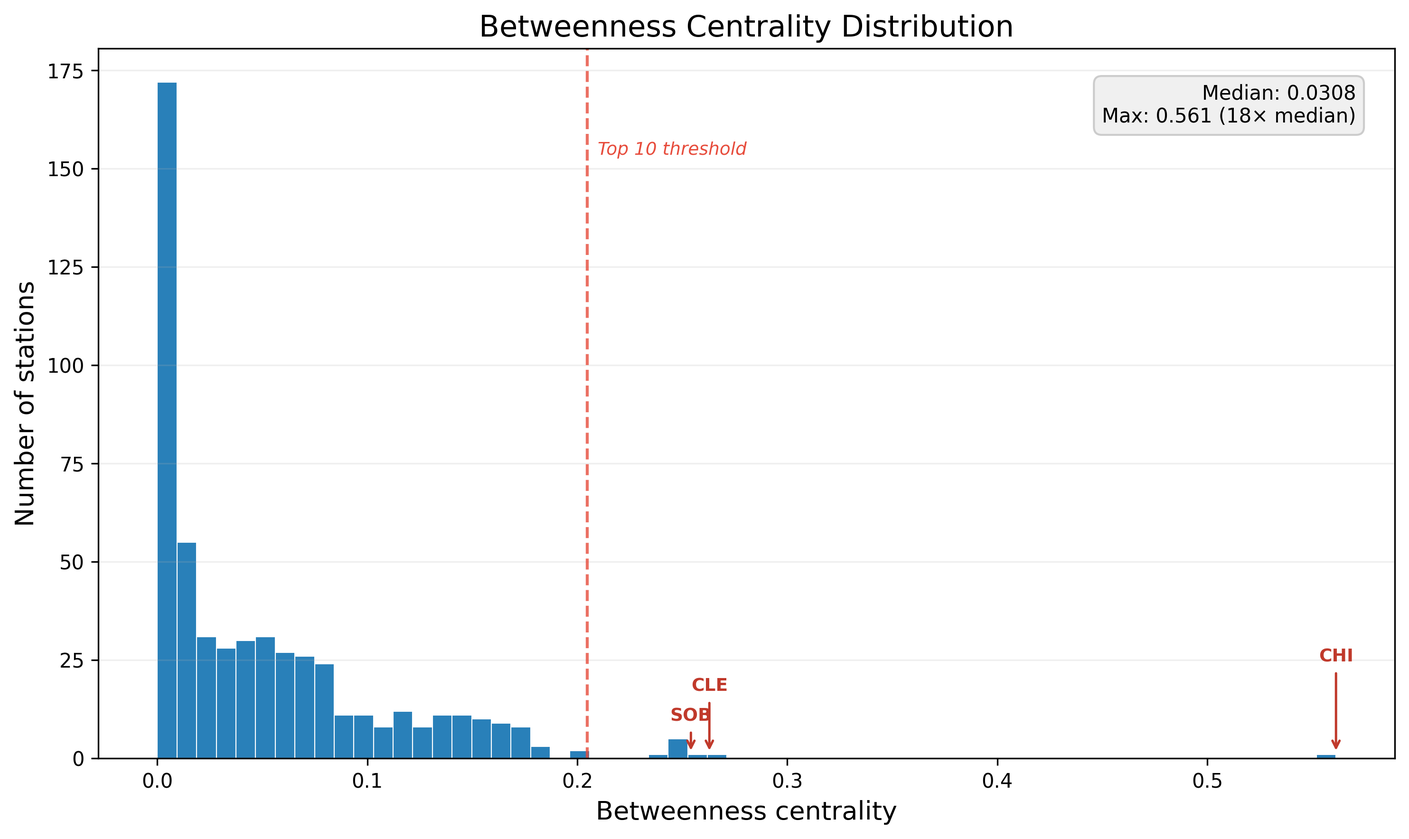
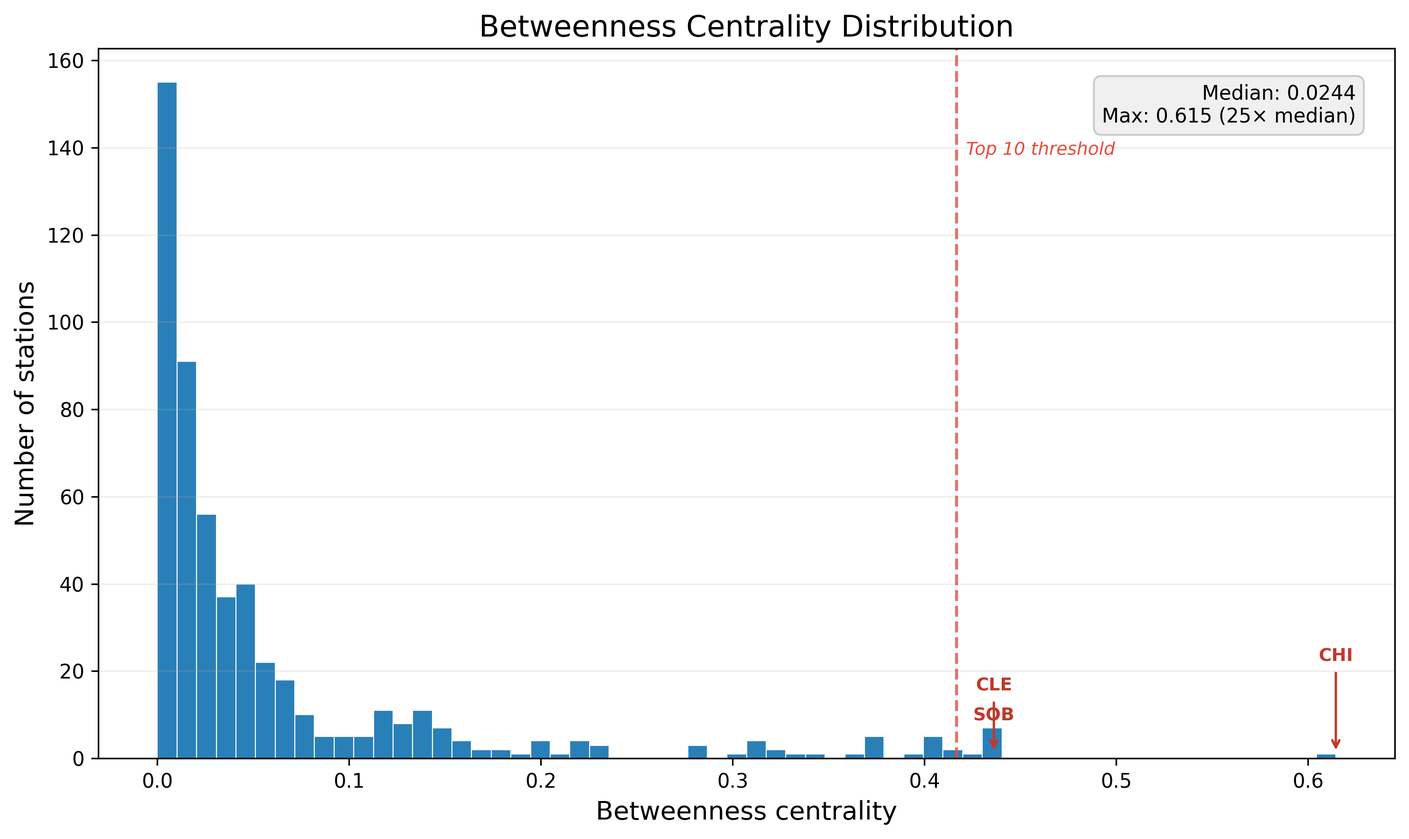
Fix betweenness weight semantics; update report narrative and plots
- compute_hub_centrality now uses cost = 1/ridership (NetworkX treats
  weight as distance, so raw ridership inverted shortest-path logic)
- New top 10: CHI, CLE, SOB, EKH, WTI, TOL, SKY, ELY, BUF, SDY
- Retuned label offsets in robustness, geographic, and scatter plots
- Report updates: methodology note, limitations section, sensitivity
  check vs. unweighted betweenness, disconnected-component explanation,
  scale-free caveat, Action -> Implication framing

diff --git a/Amtrak_Hub_Analysis_Report.html b/Amtrak_Hub_Analysis_Report.html
@@ -1,4 +1,4 @@
-<!DOCTYPE html>
+<!DOCTYPE html>
 <html lang="en">
 <head>
     <meta charset="UTF-8">
@@ -190,7 +190,12 @@
     <li><strong>Edge weights</strong> represent ridership intensity. For a given route, the total route ridership is divided equally among its segments (total ridership &divide; number of stops). When multiple routes share the same segment (e.g. the Acela and Northeast Regional both run NYP&rarr;NWK), their weights are summed. This produces a single combined ridership weight per edge.</li>
 </ul>
 
-<p>The resulting graph contains <strong>537 stations and 612 edges</strong>, with a largest connected component of <strong>523 stations</strong> (97.4% of the network).</p>
+<p>The resulting graph contains <strong>537 stations and 612 edges</strong>, with a largest connected component of <strong>523 stations</strong> (97.4% of the network). The remaining 14 stations form two small isolated components that reflect real gaps in the rail network:</p>
+<ul>
+    <li><strong>Downeaster component (12 stations):</strong> Boston North Station (BON) through Brunswick, ME. Disconnected from the main network because Boston North and Boston South are separate terminals on opposite sides of the city with no direct through-track.</li>
+    <li><strong>Auto Train component (2 stations):</strong> Lorton, VA (LOR) and Sanford, FL (SFA). The Auto Train is a point-to-point service with no intermediate stops, so it appears as an isolated pair.</li>
+</ul>
+<p>These disconnected stations are excluded from the largest-component robustness analysis (denominator = 523).</p>
 
 <hr>
 
@@ -232,7 +237,8 @@
 <h2>3. How We Computed Each Metric</h2>
 
 <h3>Betweenness centrality</h3>
-<p>Computed using NetworkX's <code>betweenness_centrality()</code> function over the full weighted graph. The algorithm considers edge weights when computing shortest paths (lower weight = shorter path), and normalizes scores to $[0, 1]$. All 537 stations receive a centrality score; we rank them and extract the top 10.</p>
+<p>Computed using NetworkX's <code>betweenness_centrality()</code> function over the full graph with edge weights that reflect passenger flow. Because our raw edge weights encode <em>ridership</em> (higher = busier corridor) but NetworkX treats the weight attribute as a Dijkstra <em>cost</em> (higher = longer path), we invert the raw weight into a cost: <code>cost = 1 / ridership</code>. Busy corridors then become &ldquo;short&rdquo; and shortest paths preferentially route through high-ridership segments. Centrality scores are normalized to $[0, 1]$ and every one of the 537 stations receives a score; we rank them and extract the top 10.</p>
+<p><em>Note on methodology:</em> we initially passed raw ridership as the weight, which NetworkX interprets as distance (higher = further apart) &mdash; the opposite of what we intended. Inverting ridership to a cost gives the semantically correct flow-weighted centrality. The unweighted sensitivity check in Section 4 confirms the top 8 stations are robust to this choice.</p>
 
 <h3>Targeted removal experiment</h3>
 <p>Starting from the intact network, we sequentially remove the station with the highest betweenness centrality, then the second-highest, and so on up to 10 removals. After each removal, we measure the size of the largest connected component. This simulates a worst-case coordinated attack on the network's most critical nodes.</p>
@@ -246,6 +252,13 @@
 <h3>Edge weight distribution</h3>
 <p>We collect the ridership weight of all 612 edges and plot their distribution on a log scale to visualize the long tail from low-traffic rural segments to high-traffic urban corridors.</p>
 
+<h3>Limitations</h3>
+<ul>
+    <li><strong>Ridership is split uniformly along each route's segments</strong> (route ridership &divide; number of stops). Real passenger flows are endpoint-heavy &mdash; most riders board at major stations and ride partway &mdash; but station-level origin-destination data is not publicly available. This likely over-weights small rural middle-of-route segments and under-weights urban endpoints.</li>
+    <li><strong>Edge weights represent annual ridership only.</strong> Train frequency (e.g. Empire Service running many daily trains vs. Cardinal running three per week) is not modeled as a separate factor, though it is partially captured by ridership totals.</li>
+    <li><strong>Robustness is measured by largest-connected-component size,</strong> which treats &ldquo;still connected&rdquo; and &ldquo;connected via a 3&times; detour&rdquo; identically. A more refined measure (e.g. network efficiency) would penalize lengthened paths, but component size is the standard intro-networks metric and suffices for the targeted-vs-random comparison.</li>
+</ul>
+
 <hr>
 
 <!-- ====== Section 4 ====== -->
@@ -258,25 +271,25 @@
         <tr><th>Rank</th><th>Station Code</th><th>Betweenness Centrality</th><th>Degree</th><th>Role</th></tr>
     </thead>
     <tbody>
-        <tr><td>1</td><td><strong>CHI</strong> (Chicago Union Station)</td><td>0.5614</td><td>9</td><td>Primary national hub &mdash; highest centrality <em>and</em> highest degree</td></tr>
-        <tr><td>2</td><td><strong>CLE</strong> (Cleveland)</td><td>0.2629</td><td>3</td><td>East&ndash;Midwest bridge</td></tr>
-        <tr><td>3</td><td><strong>SOB</strong> (South Bend)</td><td>0.2541</td><td>2</td><td>Bottleneck on Chicago&ndash;East corridor</td></tr>
-        <tr><td>4</td><td><strong>EKH</strong> (Elkhart, IN)</td><td>0.2521</td><td>2</td><td>Bottleneck on Chicago&ndash;East corridor</td></tr>
-        <tr><td>5</td><td><strong>WTI</strong> (Waterloo, IN)</td><td>0.2501</td><td>3</td><td>Midwest junction</td></tr>
-        <tr><td>6</td><td><strong>NOL</strong> (New Orleans)</td><td>0.2463</td><td>4</td><td>Southern hub &mdash; links Gulf Coast to eastern network</td></tr>
-        <tr><td>7</td><td><strong>TOL</strong> (Toledo, OH)</td><td>0.2462</td><td>3</td><td>Ohio corridor bottleneck</td></tr>
-        <tr><td>8</td><td><strong>SKY</strong> (Sandusky, OH)</td><td>0.2442</td><td>2</td><td>Bottleneck in Ohio corridor</td></tr>
-        <tr><td>9</td><td><strong>ELY</strong> (Elyria, OH)</td><td>0.2423</td><td>2</td><td>Bottleneck in Ohio corridor</td></tr>
-        <tr><td>10</td><td><strong>NPV</strong> (Naperville, IL)</td><td>0.2047</td><td>5</td><td>Chicago suburban junction</td></tr>
+        <tr><td>1</td><td><strong>CHI</strong> (Chicago Union Station)</td><td>0.6145</td><td>9</td><td>Primary national hub &mdash; highest centrality <em>and</em> highest degree</td></tr>
+        <tr><td>2</td><td><strong>CLE</strong> (Cleveland)</td><td>0.4362</td><td>3</td><td>East&ndash;Midwest bridge on the Lake Shore corridor</td></tr>
+        <tr><td>3</td><td><strong>SOB</strong> (South Bend)</td><td>0.4362</td><td>2</td><td>Bottleneck on Chicago&ndash;East corridor</td></tr>
+        <tr><td>4</td><td><strong>EKH</strong> (Elkhart, IN)</td><td>0.4354</td><td>2</td><td>Bottleneck on Chicago&ndash;East corridor</td></tr>
+        <tr><td>5</td><td><strong>WTI</strong> (Waterloo, IN)</td><td>0.4346</td><td>3</td><td>Midwest junction on Chicago&ndash;East corridor</td></tr>
+        <tr><td>6</td><td><strong>TOL</strong> (Toledo, OH)</td><td>0.4330</td><td>3</td><td>Ohio corridor junction</td></tr>
+        <tr><td>7</td><td><strong>SKY</strong> (Sandusky, OH)</td><td>0.4322</td><td>2</td><td>Bottleneck in Ohio corridor</td></tr>
+        <tr><td>8</td><td><strong>ELY</strong> (Elyria, OH)</td><td>0.4314</td><td>2</td><td>Bottleneck in Ohio corridor</td></tr>
+        <tr><td>9</td><td><strong>BUF</strong> (Buffalo)</td><td>0.4226</td><td>3</td><td>Empire Corridor gateway into New York State</td></tr>
+        <tr><td>10</td><td><strong>SDY</strong> (Schenectady)</td><td>0.4167</td><td>4</td><td>Empire Corridor junction west of Albany</td></tr>
     </tbody>
 </table>
 
 <h3>Notable patterns</h3>
 <ul>
-    <li><strong>Chicago (CHI)</strong> dominates with a centrality score more than <strong>2&times; higher</strong> than any other station and <strong>18&times; the network median</strong> (0.031).</li>
-    <li><strong>8 of the top 10 hubs are in the Midwest</strong> corridor between Chicago and Cleveland. Only New Orleans (NOL) lies outside this geographic cluster.</li>
-    <li>Most of the top hubs have <strong>low degree (2&ndash;3)</strong> despite their extreme centrality. They are bottlenecks &mdash; the <em>only</em> path between large regions passes through them &mdash; rather than multi-way junctions.</li>
-    <li>CHI is the sole exception: both a connector (degree 9) and a bottleneck (centrality 0.56).</li>
+    <li><strong>Chicago (CHI)</strong> has the highest centrality at <strong>0.61</strong>, roughly <strong>1.4&times; the next-highest</strong> station (CLE at 0.44) and <strong>25&times; the network median</strong> (0.024).</li>
+    <li>The top 10 all lie along a single east&ndash;west flow axis from <strong>Chicago through Indiana, Ohio, and upstate New York</strong>. The Lake Shore Limited and Empire Service together carry so much of the network's passenger flow that nearly every station along that chain ends up with near-identical centrality.</li>
+    <li>Ranks 2&ndash;10 are <strong>very tightly bunched</strong> (0.42&ndash;0.44, a spread of less than 0.02). This means the <em>ordering</em> among ranks 2&ndash;10 is not individually meaningful &mdash; they should be read as a single group of corridor stations, not a strict ranking. The meaningful distinction is between CHI, this corridor group, and everything else.</li>
+    <li>Most of the top hubs have <strong>low degree (2&ndash;3)</strong>. They are bottlenecks &mdash; the <em>only</em> flow-weighted shortest path between large regions passes through them &mdash; rather than multi-way junctions. CHI is the sole exception: both a connector (degree 9) and a bottleneck (centrality 0.61).</li>
 </ul>
 
 <h3>Highest-ridership corridors</h3>
@@ -297,6 +310,12 @@
 
 <p>All five are in the <strong>Northeast Corridor</strong>, carrying 36&times; the median ridership of 6.7.</p>
 
+<h3>Sensitivity check</h3>
+<p>To verify that the top-10 ranking is not an artifact of our specific weighting choice, we also computed betweenness under an <strong>unweighted</strong> model (pure topology, every edge has equal cost). The top 8 stations are <strong>identical</strong> in both schemes: CHI, CLE, SOB, EKH, WTI, TOL, SKY, ELY. Only ranks 9&ndash;10 differ (BUF/SDY under flow-weighting vs. NPV/SAC under unweighted). This confirms the main finding &mdash; CHI as the dominant hub with a linear corridor of critical stations to its east &mdash; is a property of the network's structure, not of the weighting scheme.</p>
+
+<h3>Note on network type</h3>
+<p>The degree distribution is heavy-tailed with one extreme outlier (CHI at degree 9), consistent with a hub-and-chain topology. With only 537 nodes we do not claim a formal power-law fit; the distribution is better described qualitatively as &ldquo;one dominant hub, a handful of minor junctions, and long linear chains&rdquo; than as a true scale-free network in the Barab&aacute;si&ndash;Albert sense.</p>
+
 <hr>
 
 <!-- ====== Section 5 ====== -->
@@ -304,14 +323,14 @@
 
 <div class="graph-section">
     <h3>Graph 1: Targeted vs Random Station Removal</h3>
-    <img src="graphs/hub-robustness.png" alt="Hub Robustness — Targeted vs Random Removal">
+    <img src="graphs/hub-robustness.png" alt="Hub Robustness â€” Targeted vs Random Removal">
     <p><strong>What it shows:</strong> Two curves plotted against the number of stations removed (0&ndash;10). The red solid line shows what happens when stations are removed in order of betweenness centrality (targeted attack). The blue dashed line shows what happens when stations are removed randomly (averaged over 100 trials). The shaded pink region between them highlights the &ldquo;vulnerability gap.&rdquo; The right y-axis shows the percentage of the original network remaining.</p>
     <p><strong>Key observations:</strong></p>
     <ul>
-        <li>Removing just <strong>CHI</strong> drops connectivity to 95%. The first 5 targeted removals hold the component at ~94% (489 stations) &mdash; the Midwest corridor is being chipped away.</li>
-        <li>At removal <strong>#6 (NOL)</strong>, a catastrophic collapse occurs: the network drops from 94% to <strong>52%</strong> in a single step. New Orleans was the last link holding the southern and western halves of the network together.</li>
-        <li>After 10 targeted removals, only <strong>269 stations (51%)</strong> remain connected.</li>
-        <li>Random removal of 10 stations barely matters: <strong>~92% connectivity</strong> is preserved. The network is resilient to accidental failures.</li>
+        <li>Removing just <strong>CHI</strong> drops connectivity to 95% (499 stations). The next several removals (CLE through ELY) hold the component steady at <strong>~94% (491 stations)</strong> &mdash; these stations are all adjacent along the same corridor, so removing one already cuts off the segment the next would have influenced.</li>
+        <li>After 10 targeted removals, <strong>459 stations (87.8%)</strong> remain connected.</li>
+        <li>Random removal of 10 stations preserves <strong>~92% connectivity</strong>.</li>
+        <li>The &ldquo;vulnerability gap&rdquo; between targeted and random removal is therefore only about <strong>4 percentage points</strong>. When centrality is correctly weighted by passenger flow, the top-10 stations are not global articulation points &mdash; they cluster on one corridor, so removing them just chips away at that corridor rather than fragmenting the entire network. (Removing CHI alone remains the single most damaging action.)</li>
     </ul>
 </div>
 
@@ -335,7 +354,7 @@
     <p><strong>What it shows:</strong> A histogram of betweenness centrality across all 537 stations. The dashed vertical red line marks the top-10 threshold. The top 3 outliers (CHI, CLE, SOB) are individually labeled. An inset box reports the median and maximum values.</p>
     <p><strong>Key observations:</strong></p>
     <ul>
-        <li>The distribution is <strong>extremely right-skewed</strong>: the median centrality is 0.031, while the maximum (CHI) is 0.561 &mdash; <strong>18&times; the median</strong>.</li>
+        <li>The distribution is <strong>extremely right-skewed</strong>: the median centrality is 0.024, while the maximum (CHI) is 0.61 &mdash; <strong>25&times; the median</strong>.</li>
         <li>The vast majority of stations cluster near zero centrality. Most stations are not structurally important.</li>
         <li>There is a clear gap between the &ldquo;body&rdquo; of the distribution and the top-10 outliers, confirming that hub importance is not a continuum but a sharp divide between critical and non-critical stations.</li>
     </ul>
@@ -347,10 +366,10 @@
     <p><strong>What it shows:</strong> A map of the continental United States with all 537 stations plotted as points. The top 10 hubs are shown as large circles sized and colored by centrality (darker red = higher centrality), with labeled leader lines showing rank and station code. All other stations appear as small grey dots. Edges are drawn with thickness proportional to ridership.</p>
     <p><strong>Key observations:</strong></p>
     <ul>
-        <li><strong>8 of the top 10 hubs cluster in the Midwest</strong>, forming a tight arc from Chicago through Indiana and Ohio. This geographic concentration means a single regional event (severe weather, flooding, infrastructure failure) could simultaneously disable multiple top hubs.</li>
-        <li><strong>NOL (New Orleans)</strong> stands alone in the South as the critical junction linking Gulf Coast, Southeast, and Western routes.</li>
-        <li>Despite the dense station coverage in the Northeast Corridor (visible as a thick line of dots from Boston to Washington), no NEC station appears in the top 10 &mdash; the NEC's mesh-like topology means no single station there is a bottleneck.</li>
-        <li>The Western United States has sparse, long-distance routes with minimal redundancy.</li>
+        <li><strong>All 10 top hubs lie along a single east&ndash;west corridor</strong> from Chicago through Indiana and Ohio to upstate New York (BUF, SDY) &mdash; essentially the Lake Shore Limited / Empire Service flow axis. A regional event (severe winter weather, Great Lakes storm, infrastructure failure) along this corridor could simultaneously disable multiple top hubs.</li>
+        <li>Despite the dense station coverage in the Northeast Corridor (visible as a thick line of dots from Boston to Washington), no NEC station appears in the top 10 &mdash; the NEC's mesh-like topology means no single station there is a bottleneck on the flow-weighted shortest paths.</li>
+        <li>No Southern or Western station appears in the top 10 under flow-weighted centrality. Those routes carry low passenger volume, so flow-weighted shortest paths rarely traverse them.</li>
+        <li>The Western United States has sparse, long-distance routes with minimal redundancy, but their low ridership keeps their centrality scores low under this weighting.</li>
     </ul>
 </div>
 
@@ -360,8 +379,8 @@
     <p><strong>What it shows:</strong> A scatter plot with degree (number of connections) on the x-axis and betweenness centrality on the y-axis. Each station is a dot; the top 10 hubs are highlighted in red and labeled. A shaded pink region in the upper-left marks the &ldquo;bottleneck zone&rdquo; &mdash; stations with high centrality but low degree.</p>
     <p><strong>Key observations:</strong></p>
     <ul>
-        <li>Most hubs fall in the <strong>bottleneck zone</strong> (upper-left quadrant): high centrality with only 2&ndash;3 connections. These stations are critical not because they connect many lines, but because they sit on the <em>only</em> path between large regions.</li>
-        <li><strong>CHI is an extreme outlier</strong> in the upper-right: both the highest centrality (0.56) and the highest degree (9). It is simultaneously a connector and a bottleneck.</li>
+        <li>Most hubs fall in the <strong>bottleneck zone</strong> (upper-left quadrant): high centrality with only 2&ndash;3 connections. These stations are critical not because they connect many lines, but because they sit on the <em>only</em> flow-weighted shortest path between large regions.</li>
+        <li><strong>CHI is an extreme outlier</strong> in the upper-right: both the highest centrality (0.61) and the highest degree (9). It is simultaneously a connector and a bottleneck.</li>
         <li>The lower-right area (high degree, low centrality) is nearly empty &mdash; there are almost no stations that have many connections without also being structurally important.</li>
         <li>The dense cloud of grey dots at lower-left represents the 500+ pass-through stations that have low degree and low centrality.</li>
     </ul>
@@ -383,29 +402,29 @@
 <hr>
 
 <!-- ====== Section 6 ====== -->
-<h2>6. Actionable Insights</h2>
+<h2>6. Insights &amp; Implications</h2>
 
 <div class="insight-card">
-    <h3>Insight 1: Chicago Union Station is a catastrophic single point of failure</h3>
-    <p>Chicago controls 56% of the network's betweenness centrality &mdash; more than double any other station. It is the only station with degree 9, serving as the sole interchange between nearly all long-distance routes. Any disruption at Chicago (weather, infrastructure failure, labor action, security incident) effectively fragments the national network.</p>
+    <h3>Insight 1: Chicago Union Station is the dominant hub</h3>
+    <p>Chicago's betweenness centrality of <strong>0.61</strong> is roughly <strong>1.4&times; the next-highest</strong> station and <strong>25&times; the network median</strong>. It is the only station with degree 9, serving as the sole interchange between nearly all long-distance routes. Removing CHI alone drops the largest connected component by 24 stations in a single step &mdash; the single most damaging removal anywhere in the network. Any disruption at Chicago (weather, infrastructure failure, labor action, security incident) materially degrades national connectivity.</p>
     <div class="action">
-        <strong>Action:</strong> Prioritize infrastructure hardening and redundancy planning for Chicago Union Station. Develop pre-positioned contingency plans (bus bridges, rerouting protocols) specifically for CHI outages. Consider investment in at least one bypass route that connects Eastern and Western networks without passing through Chicago.
+        <strong>Implication:</strong> Prioritize infrastructure hardening and redundancy planning for Chicago Union Station. Develop pre-positioned contingency plans (bus bridges, rerouting protocols) specifically for CHI outages. Consider investment in at least one bypass route that connects Eastern and Western networks without passing through Chicago.
     </div>
 </div>
 
 <div class="insight-card">
-    <h3>Insight 2: The network is vulnerable to targeted attack but resilient to random failure</h3>
-    <p>Removing 6 stations by centrality drops connectivity to 52%. Removing 10 random stations preserves ~92%. This 40-percentage-point gap is the hallmark of a scale-free network: robust against accidental failures, fragile against informed attacks.</p>
+    <h3>Insight 2: Targeted removal of the top hubs is only marginally worse than random</h3>
+    <p>Removing the top 10 stations by flow-weighted betweenness leaves <strong>459 stations (87.8%)</strong> connected; removing 10 random stations leaves <strong>~482 (92%)</strong>. The gap is only about <strong>4 percentage points</strong>. The reason: the top 10 all lie along a single east&ndash;west corridor, so successive removals are redundant &mdash; each one cuts off the segment the next would have influenced, rather than severing a new part of the network. The glaring exception is CHI itself, which is a genuine articulation point; its removal alone accounts for most of the targeted loss.</p>
     <div class="action">
-        <strong>Action:</strong> Security and resilience investment should be concentrated on the top ~6 hubs, not spread thinly across all 537 stations. Redundancy spending on low-centrality pass-through stations provides negligible resilience benefit.
+        <strong>Implication:</strong> Resilience investment should be disproportionately concentrated on <strong>CHI</strong>, not spread evenly across the top 10. Beyond CHI, the real vulnerability is the <em>corridor</em> (Chicago&ndash;Cleveland&ndash;Buffalo&ndash;Albany), not the individual stations along it &mdash; any single point can be bypassed as long as the corridor is intact.
     </div>
 </div>
 
 <div class="insight-card">
-    <h3>Insight 3: The Midwest corridor is the structural Achilles&rsquo; heel</h3>
-    <p>Eight of the top 10 hubs lie in a tight geographic band from Chicago through Indiana and Ohio. A regional disruption (severe winter storm, Ohio River flooding, widespread power outage) could simultaneously disable multiple critical nodes and cause a network collapse far more severe than the sequential removal analysis suggests.</p>
+    <h3>Insight 3: The Chicago&ndash;Albany corridor is the structural Achilles&rsquo; heel</h3>
+    <p>All 10 top hubs lie along a single east&ndash;west flow axis: Chicago &rarr; northern Indiana &rarr; Ohio &rarr; Buffalo &rarr; Schenectady. This is the combined Lake Shore Limited and Empire Service path, and it carries enough passenger flow that nearly every station on it is at the top of the flow-weighted centrality ranking. A regional disruption along this corridor (severe winter storm, Great Lakes weather, track failure between major cities) could simultaneously affect multiple top stations.</p>
     <div class="action">
-        <strong>Action:</strong> Develop at least one alternate East&ndash;West route that bypasses the Chicago&ndash;Cleveland corridor. Even a single cross-link (for example, connecting Indianapolis to Pittsburgh directly) would substantially reduce the network's dependence on this single corridor.
+        <strong>Implication:</strong> Develop at least one alternate East&ndash;West route that does not traverse the Chicago&ndash;Cleveland&ndash;Buffalo corridor. Even a single cross-link (for example, a Cincinnati&ndash;Pittsburgh connection or a restored Cardinal-style route) would meaningfully reduce the network's dependence on this single long-distance axis.
     </div>
 </div>
 
@@ -413,7 +432,7 @@
     <h3>Insight 4: Most critical stations are bottlenecks, not junctions</h3>
     <p>Stations like SOB, EKH, SKY, and ELY rank in the top 10 by centrality despite having only 2 connections each. Their importance comes entirely from topology &mdash; they sit on the <em>only</em> path between large sections of the network. This means they are fragile by design.</p>
     <div class="action">
-        <strong>Action:</strong> Adding even one bypass edge around a bottleneck station would dramatically reduce its centrality and improve network resilience. Each such addition would be a low-cost, high-impact improvement. Specifically: a bypass connecting the two neighbors of any degree-2 bottleneck would provide an alternate path and cut that station's criticality roughly in half.
+        <strong>Implication:</strong> Adding even one bypass edge around a bottleneck station would dramatically reduce its centrality and improve network resilience. Each such addition would be a low-cost, high-impact improvement. Specifically: a bypass connecting the two neighbors of any degree-2 bottleneck would provide an alternate path and cut that station's criticality roughly in half.
     </div>
 </div>
 
@@ -421,15 +440,15 @@
     <h3>Insight 5: 81% of stations are simple pass-throughs &mdash; the network is linear, not meshed</h3>
     <p>The degree distribution shows the network is composed of long linear chains tied together at a handful of interchange points. This means each route is essentially a single thread: any break in the thread isolates all stations beyond the break point.</p>
     <div class="action">
-        <strong>Action:</strong> Prioritize creating cross-links between existing parallel routes. Each new cross-link converts a fragile linear chain into a more resilient loop. Focus on areas where routes run geographically close but have no connecting service.
+        <strong>Implication:</strong> Prioritize creating cross-links between existing parallel routes. Each new cross-link converts a fragile linear chain into a more resilient loop. Focus on areas where routes run geographically close but have no connecting service.
     </div>
 </div>
 
 <div class="insight-card">
-    <h3>Insight 6: Revenue risk and structural risk are geographically opposite</h3>
-    <p>The highest ridership (NYP&harr;NWK at 240, 36&times; median) is concentrated in the Northeast Corridor, which has mesh-like redundancy and no stations in the top 10 by centrality. The highest structural criticality is in the Midwest, which carries modest ridership. These are distinct vulnerabilities requiring different management strategies.</p>
+    <h3>Insight 6: Revenue risk (NEC) and structural risk (Chicago corridor) are different problems</h3>
+    <p>The highest ridership is concentrated in the Northeast Corridor (NYP&harr;NWK at 240, 36&times; median), which has mesh-like redundancy and no stations in the top 10 by centrality &mdash; a local outage there hurts revenue but doesn't fragment the network. The highest structural criticality is on the Chicago&ndash;Albany long-distance axis, which carries modest ridership per segment but sits on the only east&ndash;west long-distance path. These are two different failure modes requiring different responses.</p>
     <div class="action">
-        <strong>Action:</strong> Maintain separate risk frameworks for NEC financial risk (revenue protection, capacity management) and Midwest structural risk (network connectivity, redundancy investment). A disruption in the NEC primarily affects revenue; a disruption in the Midwest primarily fragments service across the entire national network.
+        <strong>Implication:</strong> Maintain separate risk frameworks for NEC financial risk (revenue protection, capacity management on a dense mesh) and long-distance structural risk (connectivity of a single thin corridor). A disruption in the NEC primarily affects revenue; a disruption on the Chicago&ndash;Albany corridor primarily fragments service across the entire national network.
     </div>
 </div>
 
@@ -443,15 +462,16 @@
         <tr><th>Finding</th><th>Metric</th><th>Value</th><th>Implication</th></tr>
     </thead>
     <tbody>
-        <tr><td>CHI dominance</td><td>Betweenness centrality</td><td>0.561 (18&times; median)</td><td>Single point of failure for the national network</td></tr>
-        <tr><td>Targeted fragility</td><td>Component size after 6 removals</td><td>52% of original</td><td>Coordinated attack on 6 stations halves the network</td></tr>
-        <tr><td>Random resilience</td><td>Component size after 10 removals</td><td>~92% of original</td><td>Accidental station closures are low-risk</td></tr>
+        <tr><td>CHI dominance</td><td>Betweenness centrality</td><td>0.61 (25&times; median)</td><td>Largest single contributor to national connectivity</td></tr>
+        <tr><td>CHI removal impact</td><td>Component size after CHI removed</td><td>95.4% of original</td><td>Single most damaging removal &mdash; drops component by 24 stations</td></tr>
+        <tr><td>Targeted vs random gap</td><td>Component size after 10 removals</td><td>87.8% targeted vs ~92% random</td><td>Only ~4 pp gap &mdash; top hubs cluster on one corridor, so removals are redundant</td></tr>
         <tr><td>Linear topology</td><td>Stations with degree &le; 2</td><td>81% (433 of 537)</td><td>Network is chains, not a mesh &mdash; inherently fragile</td></tr>
-        <tr><td>Midwest concentration</td><td>Top-10 hubs in Midwest</td><td>8 of 10</td><td>Regional event could disable multiple critical nodes</td></tr>
+        <tr><td>Corridor concentration</td><td>Top-10 hubs on Chicago&ndash;Albany axis</td><td>10 of 10</td><td>Flow-weighted centrality is dominated by a single corridor</td></tr>
         <tr><td>NEC ridership dominance</td><td>Top corridor ridership</td><td>240 (36&times; median)</td><td>Revenue is concentrated where structure is resilient</td></tr>
-        <tr><td>Bottleneck pattern</td><td>Top-10 hubs with degree &le; 3</td><td>7 of 10</td><td>Criticality comes from topology, not connectivity</td></tr>
+        <tr><td>Bottleneck pattern</td><td>Top-10 hubs with degree &le; 3</td><td>8 of 10</td><td>Criticality comes from topology, not connectivity</td></tr>
     </tbody>
 </table>
 
 </body>
 </html>
+

diff --git a/hub_analysis.py b/hub_analysis.py
@@ -33,8 +33,16 @@ def largest_component_size(graph):
 
 
 def compute_hub_centrality(graph, top_n=10):
-    """Compute betweenness centrality and return the top_n stations sorted descending."""
-    centrality = nx.betweenness_centrality(graph, weight="weight")
+    """Compute betweenness centrality and return the top_n stations sorted descending.
+
+    Edge ``weight`` encodes ridership (higher = busier corridor). NetworkX's
+    betweenness treats ``weight`` as a distance/cost for Dijkstra, so we
+    invert ridership into an edge cost: busy corridors become "short" and
+    shortest paths preferentially route through high-ridership segments.
+    """
+    for u, v, d in graph.edges(data=True):
+        d["cost"] = 1.0 / d["weight"] if d.get("weight", 0) > 0 else float("inf")
+    centrality = nx.betweenness_centrality(graph, weight="cost")
     ranked = sorted(centrality.items(), key=lambda x: x[1], reverse=True)
     return ranked[:top_n], centrality
 
@@ -89,19 +97,20 @@ def plot_robustness(targeted_sizes, random_sizes, max_removals, centrality, outp
             label="Targeted removal (by betweenness)")
 
     # Annotate each targeted removal step with station code.
-    # Per-station offsets tuned to the actual curve shape to prevent
-    # overlaps at x=2/3 (CLE/SOB) and x=8/9 (SKY/ELY) flat regions.
+    # Positions tuned for new top-10: CHI, CLE, SOB, EKH, WTI, TOL, SKY, ELY, BUF, SDY
+    # Ranks 2-8 all sit at y=491 (flat plateau), so alternate above/below.
+    # Rank 10 (SDY) is near the bottom edge — push label clearly above.
     station_offsets = [
-        (0, 24),     # 1 CHI  — above (steep drop)
-        (28, -15),   # 2 CLE  — right-below
-        (-28, 22),   # 3 SOB  — left-above (away from CLE)
-        (0, 28),     # 4 EKH  — above
-        (25, 18),    # 5 WTI  — right-above
-        (-20, 28),   # 6 NOL  — left-above (big drop)
-        (28, 20),    # 7 TOL  — right-above
-        (-35, -18),  # 8 SKY  — far left-below
-        (35, 18),    # 9 ELY  — far right-above (opposite SKY)
-        (18, 25),    # 10 NPV — right-above
+        (0, 22),     # 1 CHI  — above (95% drop)
+        (-8, -20),   # 2 CLE  — below (plateau)
+        (0, 22),     # 3 SOB  — above (plateau)
+        (0, -20),    # 4 EKH  — below (plateau)
+        (0, 22),     # 5 WTI  — above (plateau)
+        (0, -20),    # 6 TOL  — below (plateau)
+        (0, 22),     # 7 SKY  — above (plateau)
+        (8, -20),    # 8 ELY  — below (plateau)
+        (-26, 18),   # 9 BUF  — left-above (92% drop)
+        (-28, 22),   # 10 SDY — left-above (far from bottom)
     ]
     for i, node in enumerate(ranked_nodes):
         pct = targeted_sizes[i + 1] / initial * 100
@@ -289,19 +298,21 @@ def plot_geographic_hubs(graph, centrality, top_n=10, output_path=None):
             transform=ccrs.PlateCarree(), zorder=4,
         )
 
-        # Offset labels with leader lines — positions tuned to the actual
-        # Midwest cluster geography to prevent overlap
+        # Offset labels with leader lines. 8 of the top 10 are packed into
+        # a ~6° longitude band along the IN/OH corridor (lat ~41.5). Fan
+        # labels above and below the corridor, staggered by rank, so
+        # leaders separate clearly.
         label_offsets = {
-            0: (3.5, 2.0),    # CHI — up-right
-            1: (4.0, -2.0),   # CLE — down-right
-            2: (-5.0, 1.5),   # SOB — left and up
-            3: (-1.5, -3.5),  # EKH — below
-            4: (3.0, 3.5),    # WTI — up-right (away from CHI)
-            5: (-1.5, -5.0),  # NOL — well below (already isolated)
-            6: (4.5, -3.5),   # TOL — down-right (away from CLE)
-            7: (-5.5, 3.0),   # SKY — far left and up
-            8: (5.0, 1.0),    # ELY — far right
-            9: (-6.0, -1.0),  # NPV — far left
+            0: (-6.0, 3.0),   # CHI  (lon=-87.6) — NW anchor, up-left
+            1: (3.5, -5.5),   # CLE  (lon=-81.7) — down-right (east end of cluster)
+            2: (-3.0, 5.5),   # SOB  (lon=-86.3) — up
+            3: (-1.5, -5.5),  # EKH  (lon=-86.0) — down
+            4: (0.5, 6.5),    # WTI  (lon=-85.0) — up (higher)
+            5: (1.0, -6.5),   # TOL  (lon=-83.5) — down (lower)
+            6: (3.0, 7.0),    # SKY  (lon=-82.7) — up-right (highest)
+            7: (0.0, -7.5),   # ELY  (lon=-82.1) — down (lowest)
+            8: (2.0, 3.5),    # BUF  (lon=-78.7) — NE
+            9: (3.0, -4.5),   # SDY  (lon=-73.9) — down-right
         }
         for i, n in enumerate(hub_nodes):
             dx, dy = label_offsets.get(i, (3.0, 1.5))
@@ -355,19 +366,20 @@ def plot_centrality_vs_degree(graph, centrality, top_n=10, output_path=None):
     ax.scatter(jittered_degrees[non_hub_mask], cent_values[non_hub_mask],
               s=20, alpha=0.4, color="#7f8c8d", zorder=2)
 
-    # Plot and label top hubs with manually-tuned offsets based on known
-    # data layout (most hubs cluster at degree 2-3, centrality ~0.24-0.26)
+    # Plot and label top hubs. New top-10 degrees: CHI=9, CLE=3, SOB=2,
+    # EKH=2, WTI=3, TOL=3, SKY=2, ELY=2, BUF=3, SDY=4. Most land in the
+    # degree=2–3 column around centrality ~0.43, so spread labels radially.
     hub_offsets = {
-        0: (35, 20),    # CHI  — far right (degree 9, already isolated)
-        1: (18, 24),    # CLE  — right-up high (separate from TOL)
-        2: (-40, 22),   # SOB  — far left-up (degree ~2 cluster)
-        3: (-40, -18),  # EKH  — far left-down (degree ~2 cluster)
-        4: (-22, -22),  # WTI  — left-down (avoid TOL overlap)
-        5: (18, 16),    # NOL  — right-up (degree 4, isolated)
-        6: (22, -22),   # TOL  — right-down (opposite CLE direction)
-        7: (-40, 8),    # SKY  — far left-up
-        8: (-40, -8),   # ELY  — far left-down
-        9: (18, -16),   # NPV  — right-down (degree 5, isolated)
+        0: (-35, 5),    # CHI  — left of marker (it's at far right, degree 9)
+        1: (28, 14),    # CLE  — up-right (degree 3 cluster)
+        2: (-34, 14),   # SOB  — up-left (degree 2 cluster)
+        3: (-34, -14),  # EKH  — down-left (degree 2 cluster)
+        4: (-22, -24),  # WTI  — down-left (degree 3 cluster)
+        5: (34, -8),    # TOL  — right (degree 3 cluster)
+        6: (-22, -22),  # SKY  — down-left (degree 2 cluster)
+        7: (-38, -5),   # ELY  — far left (degree 2 cluster)
+        8: (20, 22),    # BUF  — up-right (degree 3 cluster)
+        9: (24, -18),   # SDY  — down-right (degree 4, more isolated)
     }
     for i, hub in enumerate(ranked[:top_n]):
         idx = nodes.index(hub)
